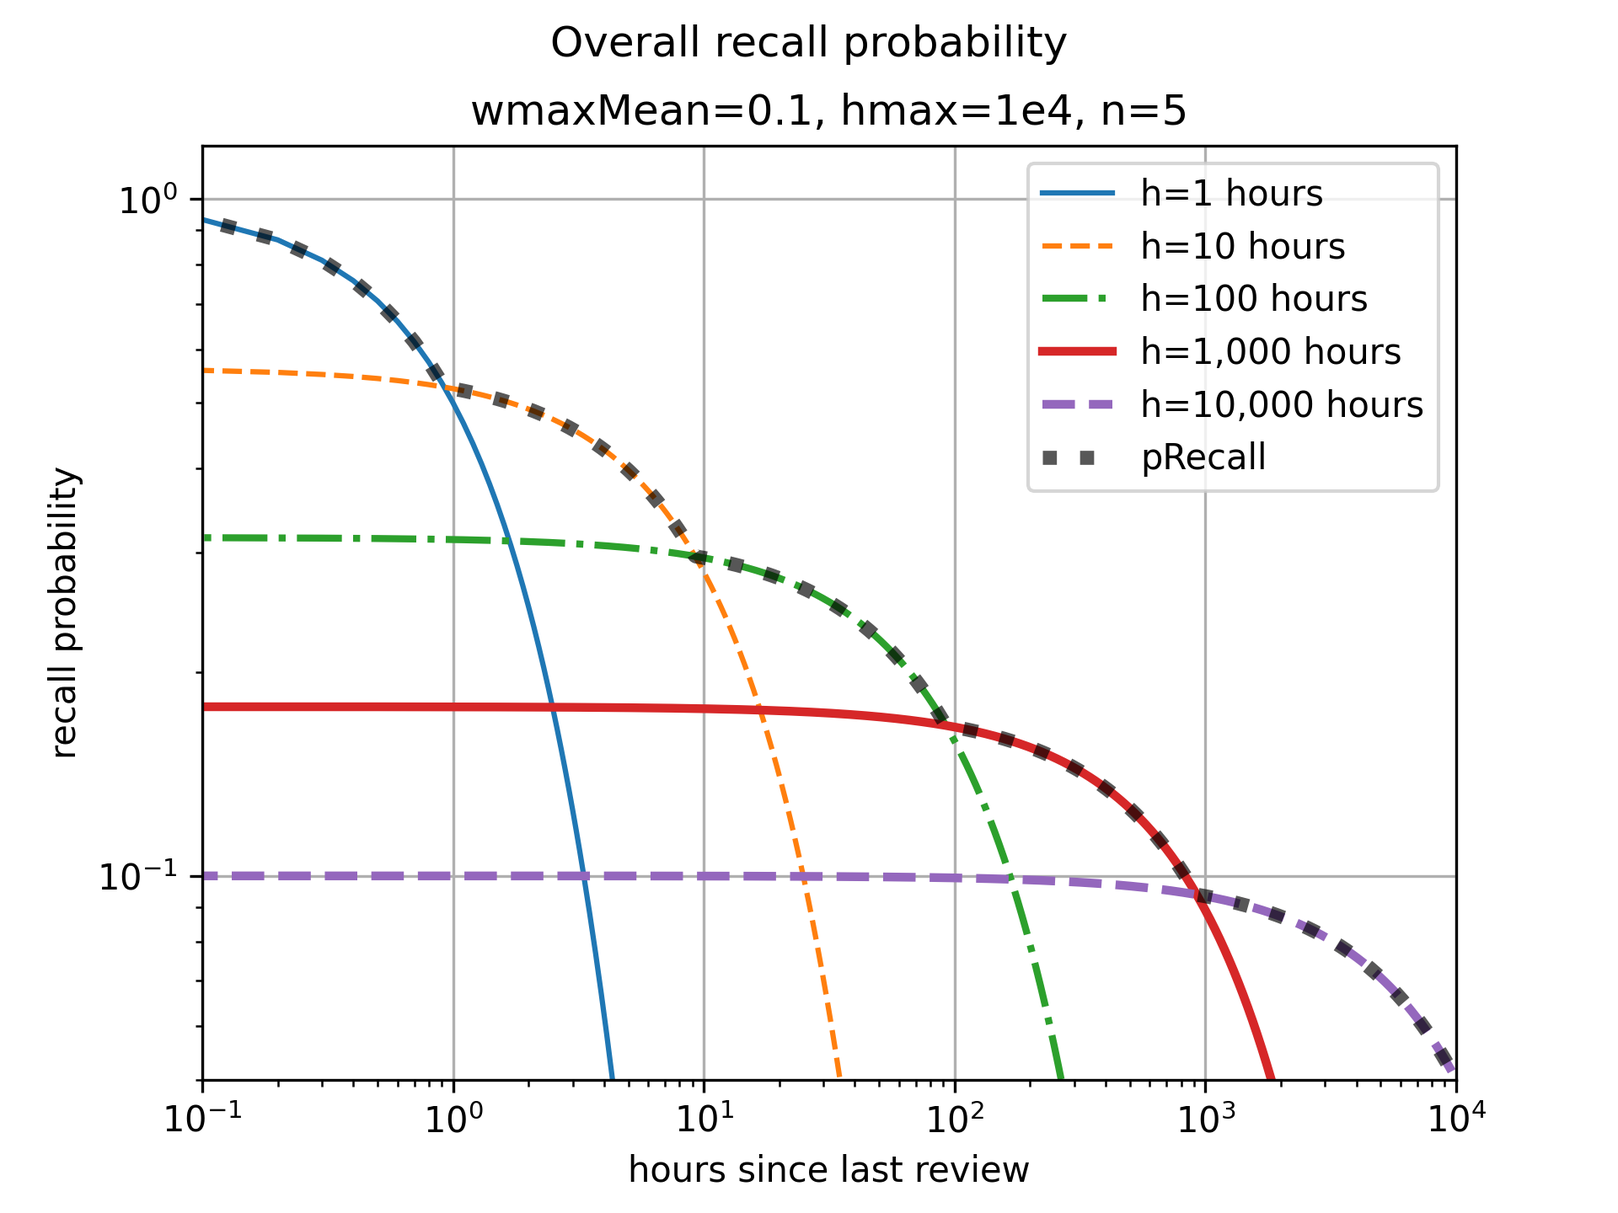
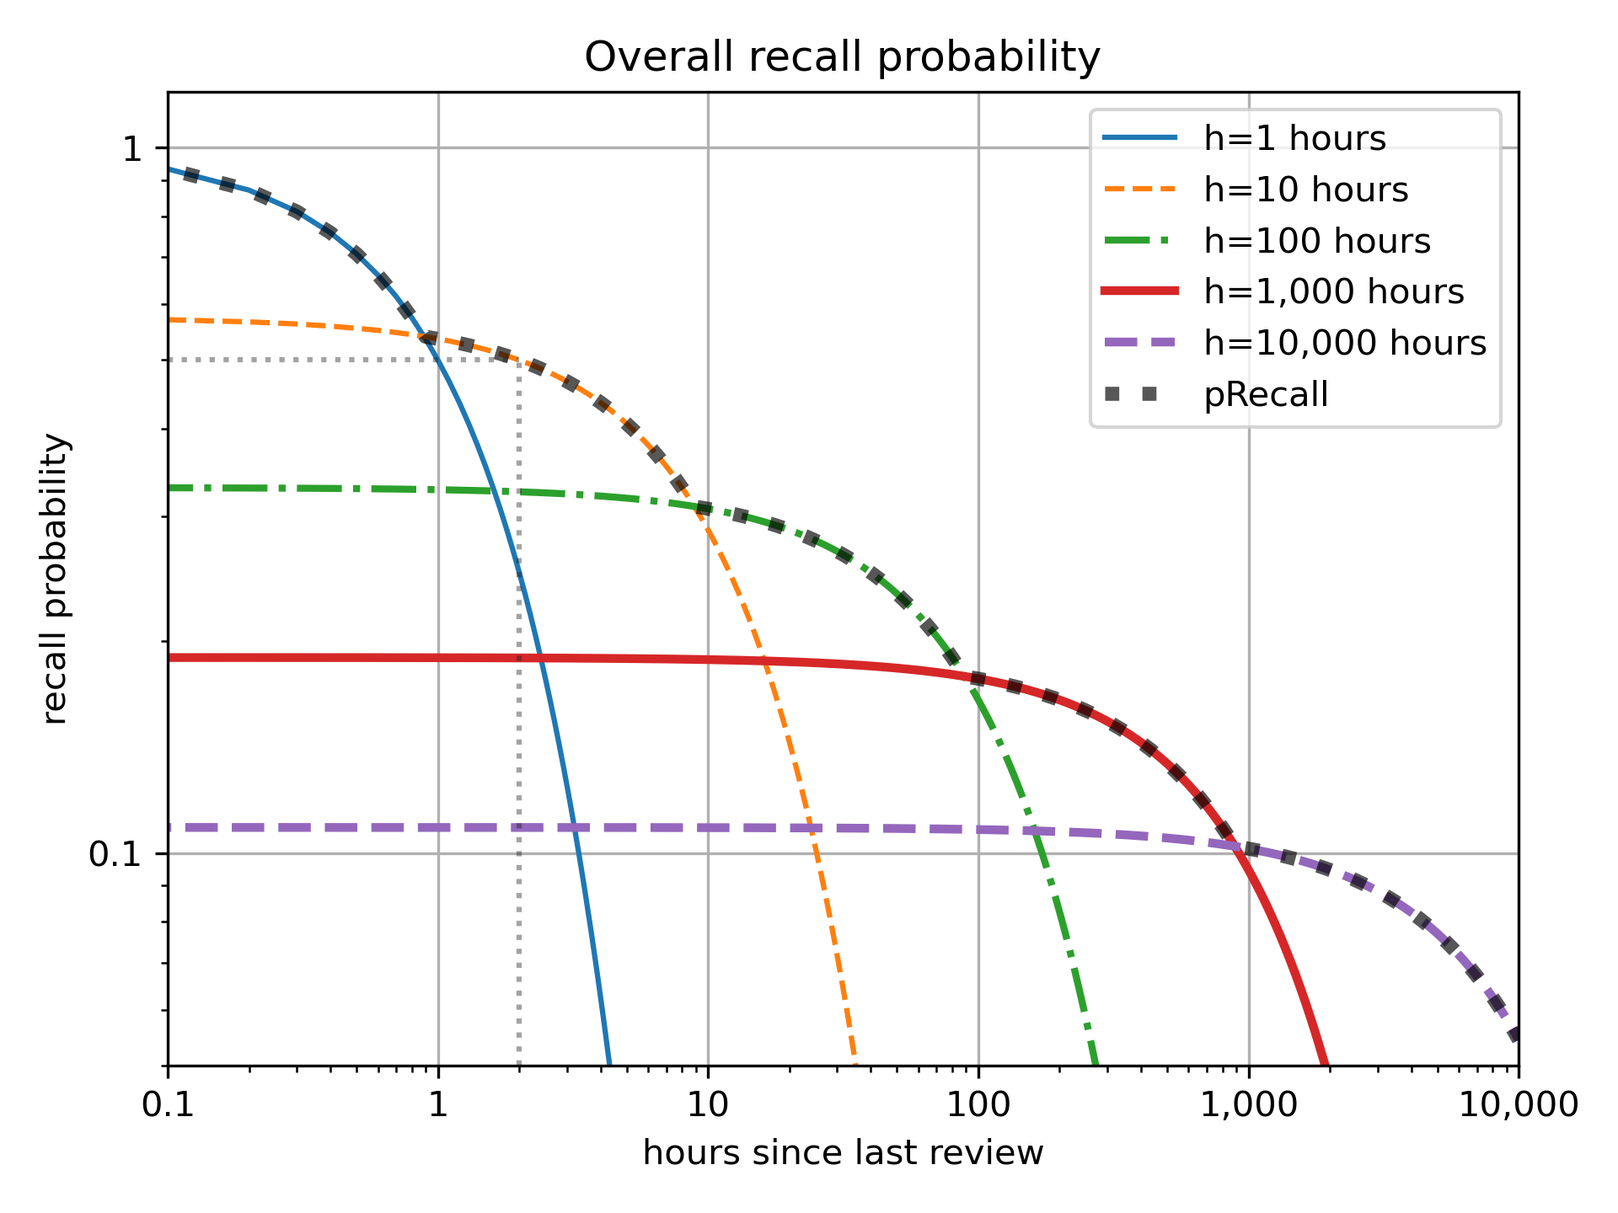
predict halflife semi-bayes and results

diff --git a/ebisu/ebisu.py b/ebisu/ebisu.py
@@ -5,17 +5,15 @@ from copy import deepcopy
 from typing import Union, Optional
 
 from .models import BinomialResult, HalflifeGamma, Model, NoisyBinaryResult, Predict, Quiz, Result
-from .ebisuHelpers import gammaUpdateBinomial, gammaUpdateNoisy
+from .ebisuHelpers import gammaPredictRecall, gammaUpdateBinomial, gammaUpdateNoisy
 
 
 def initModel(
-    halflife: Optional[float] = None,
-    weights: Optional[list[float] | np.ndarray] = None,
-    # above: weights, below: halflives
-    firstHalflife=1.0,
-    finalHalflife=1e5,
-    halflifeGammas: Optional[list[HalflifeGamma]] = None,
-    n: int = 10,  # both weights and halflives
+    halflife: float,  # hours
+    finalHalflife=1e5,  # hours
+    n: int = 10,
+    # above: lazy inputs, below: exact inputs
+    weightsHalflifeGammas: Optional[list[tuple[float, HalflifeGamma]]] = None,
     now: Optional[float] = None,  # totally separate
 ) -> Model:
   """
@@ -24,21 +22,22 @@ def initModel(
   Optional `now`: milliseconds since the Unix epoch when the fact was learned.
   """
   now = now if now is not None else timeMs()
-  if halflifeGammas is None:
-    halflives = np.logspace(log10(firstHalflife), log10(finalHalflife), n).tolist()
+  if weightsHalflifeGammas is not None:
+    n = len(weightsHalflifeGammas)
+    weights: list[float] = []
+    halflifeGammas: list[tuple[float, float]] = []
+    halflives: list[float] = []
+    # could use `zip` here but then types get mixed
+    for w, g in weightsHalflifeGammas:
+      weights.append(w)
+      halflifeGammas.append(g)
+      halflives.append(_gammaToMean(*g))
+  else:
+    halflives = np.logspace(log10(halflife * .1), log10(finalHalflife), n).tolist()
+    # pick standard deviation to be half of the mean
     halflifeGammas = [_meanVarToGamma(t, (t * .5)**2) for t in halflives]
-  else:
-    n = len(halflifeGammas)
-    halflives = [_gammaToMean(alpha, beta) for alpha, beta in halflifeGammas]
+    weights = _makeWs(n, _halflifeToFinalWeight(halflife, halflives)).tolist()
 
-  if weights is None:
-    if halflife is not None:
-      weights = _makeWs(n, _halflifeToFinalWeight(halflife, halflives))
-    else:
-      raise Exception('need weights or halflife')
-  else:
-    assert len(halflifeGammas) == len(weights), "# of Gammas must equal # of weights"
-    n = len(weights)  # might overwrite, that's fine
   log2weights = np.log2(weights).tolist()
 
   return Model(
@@ -153,6 +152,29 @@ def predictRecall(
   return logPrecall if logDomain else np.exp2(logPrecall)
 
 
+LN2 = np.log(2)
+
+
+def predictRecallSemiBayesian(
+    model: Model,
+    now: Optional[float] = None,
+    logDomain=True,
+    extra: Optional[dict] = None,
+) -> float:
+  now = now if now is not None else timeMs()
+  elapsedHours = (now - model.pred.lastEncounterMs) * HOURS_PER_MILLISECONDS
+  assert elapsedHours >= 0, "cannot go back in time"
+  l = [
+      log2w * LN2 + gammaPredictRecall(alpha, beta, elapsedHours, True)
+      for (alpha, beta), log2w in zip(model.pred.halflifeGammas, model.pred.log2weights)
+  ]
+  if extra is not None:
+    extra['indiv'] = l
+  logPrecall = max(l)
+  assert np.isfinite(logPrecall) and logPrecall <= 0
+  return logPrecall if logDomain else np.exp(logPrecall)
+
+
 def predictRecallMonteCarlo(
     model: Model,
     now: Optional[float] = None,
@@ -168,16 +190,19 @@ def predictRecallMonteCarlo(
   logp = np.max((np.array(model.pred.log2weights)[:, np.newaxis] -
                  elapsedHours / np.vstack([g.rvs(size=size) for g in gammas])),
                 axis=0)
-  return np.mean(logp) if logDomain else np.mean(np.exp2(logp))
+  expectation = np.mean(np.exp2(logp))
+  return np.log(expectation) if logDomain else expectation
 
 
 def _halflifeToFinalWeight(halflife: float, hs: list[float] | np.ndarray):
   """
   Complement to `hoursForRecallDecay`, which is $halflife(percentile, wmaxMean)$.
 
-  This is $wmaxMean(halflife, percentile=0.5)$.
+  This is $finalWeight(halflife, percentile=0.5)$.
   """
   n = len(hs)
+  if n == 1:
+    return 1.0
   i = np.arange(0, n)
   hs = np.array(hs)
   # Avoid divide-by-0 below by skipping first `i` and `hs`
@@ -209,6 +234,8 @@ def _meanVarToGamma(mean, var) -> tuple[float, float]:
 
 
 def _makeWs(n: int, finalWeight: float) -> np.ndarray:
+  if n == 1:
+    return np.array([finalWeight])
   return finalWeight**(np.arange(n) / (n - 1))
 
 

diff --git a/readme_plots.py b/readme_plots.py
@@ -1,18 +1,21 @@
+import re
 import numpy as np
-import pylab as plt
 import ebisu
+import pylab as plt
 
 plt.ion()
 
 hs = np.logspace(0, 4, 5)
-ws = ebisu.ebisu._makeWs(len(hs), 0.1, 'exp')
+hl = 2
+finalWeight = ebisu.ebisu._halflifeToFinalWeight(hl, hs)
+ws = ebisu.ebisu._makeWs(len(hs), finalWeight)
+print(finalWeight, ws)
 
 plt.figure()
 plt.plot(hs, ws, 'o-')
 plt.xlabel('halflife (hours)')
 plt.ylabel('weight (unitless)')
-plt.suptitle('Weights per halflife (wMax=0.1)')
-plt.title('wmaxMean=0.1, hmax=1e4, n=5')
+plt.suptitle(f'Weights per halflife')
 plt.ylim([0, np.max(plt.ylim())])
 plt.grid()
 plt.savefig('leaky-integrators-weights.png', dpi=300)
@@ -37,10 +40,10 @@ plt.plot(
 plt.legend()
 plt.xlabel('hours since last review')
 plt.ylabel('recall probability')
-plt.suptitle('Overall recall probability')
-plt.title('wmaxMean=0.1, hmax=1e4, n=5')
+plt.title('Overall recall probability')
 plt.grid()
-plt.xlim([-10, 260])
+plt.xlim([-10, 220])
+plt.tight_layout()
 
 plt.savefig('leaky-integrators-precall.png', dpi=300)
 plt.savefig('leaky-integrators-precall.svg')
@@ -49,5 +52,15 @@ plt.gca().set_xscale("log")
 plt.gca().set_yscale("log")
 plt.ylim([.05, 1.2])
 plt.xlim([1e-1, 1e4])
+
+plt.hlines([0.5], np.min(plt.xlim()), hl, color=(.1, .1, .1), alpha=0.4, linestyles='dotted')
+plt.vlines([hl], np.min(plt.ylim()), 0.5, color=(.1, .1, .1), alpha=0.4, linestyles='dotted')
+
+ax = plt.gca()
+fixup = lambda vec: [re.sub(r'.0$', '', f'{x:,}') for x in vec]
+ax.set_xticklabels(fixup(ax.get_xticks()))
+ax.set_yticklabels(fixup(ax.get_yticks()))
+
+plt.tight_layout()
 plt.savefig('leaky-integrators-precall-loglog.png', dpi=300)
 plt.savefig('leaky-integrators-precall-loglog.svg')

diff --git a/ebisu/ebisuHelpers.py b/ebisu/ebisuHelpers.py
@@ -65,7 +65,7 @@ def _intGammaPdf(a: float, b: float, logDomain: bool):
 
 
 def _intGammaPdfExp(a: float, b: float, c: float, logDomain: bool):
-  # $s(a,b,c) = \int_0^∞ h^(a-1) \exp(-b h - c / h) dh$, via sympy
+  "Returns $∫_0^∞ h^(a-1) e^{-b h - c / h} dh$, or its log"
   if c == 0:
     return _intGammaPdf(a, b, logDomain=logDomain)
 
@@ -120,3 +120,10 @@ def gammaUpdateNoisy(a: float, b: float, t: float, q1: float, q0: float, z: bool
   assert np.isfinite(newAlpha)
   assert np.isfinite(newBeta)
   return GammaUpdate(a=newAlpha, b=newBeta, mean=exp(logmean))
+
+
+def gammaPredictRecall(alpha: float, beta: float, hoursElapsed: float, logDomain: bool) -> float:
+  res = _intGammaPdfExp(alpha, beta, hoursElapsed * LN2, logDomain=logDomain)
+  if logDomain:
+    return res + alpha * log(beta) - gammaln(alpha)
+  return res * (beta**alpha) / gamma(alpha)

diff --git a/readme_plots_halflife.py b/readme_plots_halflife.py
@@ -1,0 +1,21 @@
+import ebisu
+import numpy as np
+import pylab as plt
+
+plt.ion()
+
+# m = ebisu.initModel(2.0, finalHalflife=1e4, n=1, now=0)
+m = ebisu.initModel(2.0, finalHalflife=1e4, n=5, now=0)
+t = np.logspace(-2, 5, 201)
+
+mc = [ebisu.predictRecallMonteCarlo(m, now=3600e3 * h, size=1_000, logDomain=False) for h in t]
+semibayes = [ebisu.predictRecallSemiBayesian(m, now=3600e3 * h, logDomain=False) for h in t]
+approx = [ebisu.predictRecall(m, now=3600e3 * h, logDomain=False) for h in t]
+
+plt.figure()
+plt.loglog(t, approx, label='Approx')
+plt.loglog(t, mc, label='Monte Carlo')
+plt.loglog(t, semibayes, label='Semi Bayes', linestyle='--')
+
+plt.ylim([.09, 1.2])
+plt.legend()

diff --git a/README.md b/README.md
@@ -70,24 +70,18 @@ python -m pip install ebisu
 **Step 1.** Create an Ebisu `Model` for each flashcard when a student learns it:
 ```py
 def initModel(
-    halflife: Optional[float] = None,
-    finalWeight: Optional[float] = None,
-    weights: Optional[list[float] | np.ndarray] = None,
-
-    firstHalflife=1.0,
-    finalHalflife=1e5,
-    halflifeGammas: Optional[list[HalflifeGamma]] = None,
-
+    halflife: float,  # hours
+    finalHalflife=1e5,  # hours
     n: int = 10,
-
-    now: Optional[float] = None,
+    weightsHalflifeGammas: Optional[list[tuple[float, HalflifeGamma]]] = None,
+    now: Optional[float] = None,  # totally separate
 ) -> Model
 ```
-If you want to do the minimal amount of work to create a model, just provide `halflife` in hours. This is your best guess of how long it will take for this flashcard’s memory to decay to 50% (“half” in “halflife”).
+If you want to do the minimal amount of work to create a model, just provide `halflife` in hours. This is your best guess of how long it will take for this flashcard’s memory to decay to 50% (the “half” in “halflife”).
 
-This will create a sequence of `n=10` decaying exponentials (“leaky integrators” in Mozer et al.’s terminology) whose halflives are Gamma random variables. The means of these Gammas are logarithmically-spaced from `firstHalflife` of an hour to `finalHalflife` of 1e5 hours (more than 11 years; the standard deviation of each Gamma will be half the mean). This will also assign each of these Gamma random variables a weight that logarithmically-decreases from 1.0 such that the overall probability of recall has your provided `halflife`.
+This will create a sequence of `n=10` decaying exponentials (“leaky integrators” in Mozer et al.’s terminology) whose halflives are Gamma random variables. The means of these Gammas are logarithmically-spaced from some fraction of `halflife` to `finalHalflife` of 1e5 hours (more than 11 years), and their standard deviations are some proportion of the mean. This will also assign each of these Gamma random variables a weight that logarithmically-decreases from 1.0 such that the overall probability of recall has your provided `halflife`.
 
-So. If you want to tune any of the above, you have all the knobs you need as keyword arguments: you can tweak how many leaky integrators there are, what the range of halflives they cover, and for ultimate control, provide `(alpha, beta)` parameterizations for each Gamma random variable via `halflifeGammas`. You can of course also specify the list of `weights` which governs the overall halflife of this fact.
+If you dislike any of the above defaults, you can tune them using the keyword arguments, or, for total control, pass in `weightsHalflifeGammas`, a list of tuples containing each leaky integrator’s weight and `HalflifeGamma` (a tuple of `alpha, beta` parameters of each Gamma random variable).
 
 `now` is when this fact was learned (milliseconds in the Unix epoch, midnight UTC on 1 January, 1970). If you don’t provide it, the current timestamp is used.
 
@@ -162,13 +156,33 @@ Now let’s jump into a more formal description of the mathematics and the resul
 ### Exponential decay
 While much psychological literature has identified that forgetting follows power-law decay (e.g., probability of recall $t$ time units after last review $p(t) = (t+1)^{-α}$ for some positive shape parameter $α$), we start by discussing a simpler case, exponential decay, because we will use a string of exponentially-decaying functions to approximate a power law.
 
-So let’s imagine a flashcard with halflife $h ∼ \mathrm{Gamma}(α, β)$, in hours, that is, a Gamma random variable with known parameters $α$ and $β$.
+So let’s imagine a flashcard with halflife in hours $h ∼ \mathrm{Gamma}(α, β)$, that is, a Gamma random variable with known parameters $α$ and $β$.
 
 This flashcard’s probability of recall after $t$ hours since last encountering it is
 $$p(t) = 2^{-t/h}.$$
 At the halflife, the recall probability $p(h) = 0.5$ has decayed to half-strength. At twice the halflife, $p(2 h) = 0.25$, and so on.
 
-Now suppose at time $t$ hours since last review, we obtain a  binomial quiz:
+For any given time elapsed $t$, we can compute the expected value of this recall probability via the law of the unconscious statistician ([LOTUS](https://en.wikipedia.org/wiki/Law_of_the_unconscious_statistician)), whereby for random variable $X$, $E[g(X)] = ∫_{-∞}^∞ g(x) f_X(x) \,\mathrm{d}x$, that is, the expectation of a function ($g$) of a random variable involves integrating that function and the random variable’s density ($f_X$). In our case we use the Gamma’s density:
+$$
+E\left[p(t) = 2^{-t/h}\right] = \frac{β^α}{Γ(α)}  ∫_0^∞ 2^{-t/h} h^{α - 1} e^{β h} \,\mathrm{d}h.
+$$
+This is not as ferocious as it first looks. Since $2^x = e^{x \log 2}$ (where $\log$ is the natural log, with base $e$), we can absorb terms, and then let <a name="sympy-integral"></a>Sympy do all the heavy lifting: it turns out that for positive constants $a$, $b$, and $c$,
+$$
+  ∫_0^∞ h^{a - 1} e^{-b h - c / h} \,\mathrm{d}h = 2 \left(\frac{c}{b}\right)^{a/2} K_{a}(2\sqrt{b c}).
+$$
+$K_ν(z)$ here is the modified Bessel function of the second kind with order $ν$ (lol which is Greek letter “nu”) and argument $z$. Frankly, I don’t know much about this function but [Scipy](https://docs.scipy.org/doc/scipy/reference/generated/scipy.special.kv.html) provides it—lucky!
+
+> For completeness, note that when $c=0$ (which can happen in our application when the time elapsed since last quiz is $t=0$), there’s a simpler solution. The integrand is just the Gamma distribution’s density, so $∫_0^∞ h^{a-1} e^{-b h} \,\mathrm{d}h = b^{-a}Γ(a)$, i.e., the reciprocal of the normalizing constant in the Gamma density.
+
+Therefore, we have
+$$
+  E\left[p(t) \right] = \frac{2 β^α}{Γ(α)} \left(\frac{t \log 2}{β}\right)^{α/2} K_{α}(2\sqrt{β t \log 2}),
+$$
+which could be simplified a bit more but I’ll leave it like this because it uses the result of the Sympy integral above which we’ll have occasion to invoke later.
+
+Nota bene, Ebisu doesn’t actually use this expectation anywhere since it never has a single Gamma-distributed halflife (only a series of them). I’ve belabored this derivation mainly because it introduces some results we’ll use next—quizzes.
+
+So. Suppose at time $t$ hours since last review, we obtain a  binomial quiz:
 $$k|h ∼ \mathrm{Binomial}(n, p(t) = 2^{-t/h})$$
 In words: the student got $k$ points out of $n$ total where each point was independent and had probability $p(t)$. (For $n=1$ of course the binomial trial simplifies to a Bernoulli trial, i.e., a binary quiz.)
 
@@ -201,20 +215,12 @@ m_N = ∑_{i=0}^{n-k} \left[
   ∫_0^∞ h^{α + N - 1} e^{-β h - (k-i)(\log 2) t / h} \,\mathrm{d}h
 \right].
 $$
-Sympy comes in clutch to do this inner integral: in general, for positive constants $a$, $b$, and $c$,
-$$
-  ∫_0^∞ h^{a - 1} e^{-b h - c / h} \,\mathrm{d}h = 2 \left(\frac{c}{b}\right)^{a/2} K_{a}(2\sqrt{b c}).
-$$
-$K_ν(z)$ here is the modified Bessel function of the second kind with order $ν$ (lol which is Greek letter “nu”) and argument $z$. Frankly, I don’t know much about this function but [Scipy](https://docs.scipy.org/doc/scipy/reference/generated/scipy.special.kv.html) provides it—lucky!
-
-> For completeness, note that when $c=0$ (which can happen in our application when the time elapsed since last quiz is $t=0$), there’s a simpler solution. The integrand is just the Gamma distribution’s density, so $∫_0^∞ h^{a-1} e^{-b h} \,\mathrm{d}h = b^{-a}Γ(a)$, i.e., the reciprocal of the normalizing constant in the Gamma density.
-
-So the constant
+Note that the inner integral is in the same form as the one we solved with Sympy [above](#sympy-integral), for the expected probability of recall. So the constant is
 $$m_N = ∑_{i=0}^{n-k}
   (-1)^i \binom{n-k}{i}
   2 \left(\frac{(k-i)(\log 2) t}{β}\right)^{(α+N)/2} K_{α+N}(2\sqrt{β  (k-i)(\log 2) t})
 .$$
-This is… good! I promise! We’ll see later how this is implemented quite carefully in Python using `gammaln` and `kve` and `logsumexp` to maintain numerical accuracy but this is really useful because the moments of the posterior $P(h|k)$ follow very straightforwardly from the way we’ve constructed $m_N$. The mean
+This is… good! I promise! We’ll see later how this is implemented quite carefully in Python using `gammaln` and `kve` and `logsumexp` to maintain numerical accuracy but for now note how this is really useful because the moments of the posterior $P(h|k)$ follow very straightforwardly from the way we’ve constructed $m_N$. The mean
 $$E[h|k] = μ = \frac{1}{m_0} ∫_0^∞ h \left(1-e^{-(\log 2) t/h}\right)^{n-k} h^{α - 1} e^{-β h - k(\log 2) t/h}$$
 is simply $μ = \frac{m_1}{m_0}$. The second non-central moment $E[(h|k)^2] = \frac{m2}{m_0}$, so the variance is $σ^2 = m_2/m_0 - μ^2$.
 
@@ -295,8 +301,30 @@ $q_0$ is provided in a keyword argument and for the sake of developer experience
 > While this choice for the default $q_0$ is ad hoc, it does have the nice property that `successes` between 0 and 1 will smoothly and symmetrically (around 0.5) scale the posterior halflife between the binary fail/pass cases. Also, as a satisfying bonus, a *totally* uninformative quiz with  `successes = 0.5` results in *no change* to the prior, i.e., $α' = α$ and $β' = β$!
 
 ### Power laws
+So we’ve derived the mathematical specifics of two quiz styles for the *exponential* forgetting model, where our beliefs about the halflife of a fact $h$ are converted to recall probabilities via $p(t) = 2^{-t/h}$, even though considerable research has shown forgetting is a power-law phenomenon. In this section, we will show how a staggered sequence of exponentials leads us to the power law we’d like to govern Ebisu recall.
 
-> Recall that exponential decay, where the time factor $t$ is in the power, is qualitatively different than power-law decay, where $t$ is in the base. $2^{-t}$ decays *incredibly* quickly—you recall what Einstein apparently said about exponentials being the most powerful force in the universe. After seven halflives, the probability of recall has dropped less than 1%: $2^{-7} = 1/128$. Meanwhile, power laws decay much more slowly: $(t+1)^{-1}$ has decayed to 0.5 at $t=1$, making 1 hour its halflife; after seven halflives, the probability of recall is still $1/8$ or 12.5%. 12.5% is much more than 0.8%!
+To set the stage first—recall that exponential decay, where the time factor $t$ is in the exponent, is truly *fundamentally* different than power-law decay where $t$ is in the base. $2^{-t}$ decays *incredibly* quickly—you will recall what Einstein apparently said about exponentials being the most powerful force in the universe. After seven halflives, the probability of recall has dropped less than 1%: $2^{-7} = 1/128$. Meanwhile, power laws decay much more slowly: $(t+1)^{-1}$ has the same halflife as $2^{-t}$ (both have decayed to 0.5 at $t=1$) but after seven halflives, the probability of recall for the power law is still $1/8$, i.e., 12.5%, an order of magnitude higher than 0.8%!
+
+Mozer et al. in both their 2009 NIPS conference paper and their 2014 <cite>Psychological Science</cite> journal article (see [bibliography](#bibliography)) propose a model recall that uses a *series* of exponentials, which they call a “cascade of leaky integrators”. Here’s what that could look like, for a notional example: we have a sequence of five decaying exponentials whose halflives are logarithmically-spaced from one hour to `1e4` hours (1.4 years), and each exponential is scaled by a exponentially-decreasing weight, from 1.0 down. Here’s a plot of these five weighted exponentials, superimposed on which is a line (thick, dotted, gray) representing the *max* of any of these at any point in time:
+
+![Recall probability for each leaky integrator, with max](leaky-integrators-precall.png)
+
+At the left-most part of the plot, the first leaky integrator with the shortest time constant (blue solid line) dominates but also very quickly fades away due to the crush of its fast exponential. But as it decays, the second leaky integrator, with a strictly lower starting value (weight; orange dotted line), steps up to keep the recall probability from collapsing. And so on till the last leaky integrator.
+
+Switching the above plot’s x and y scales to log-log gives and zooming out to see more time gives us this:
+
+![Recall probability, as above, on log-log plot](leaky-integrators-precall-loglog.png)
+
+By taking the *max* of the output of each leaky integrator, we get this *sequence* of bumps, which describe a bumpy power law for times ranging between minutes to 1+ year. A *true* power law would, in a log-log plot such as this, be a straight line for all time—not only is ours bumpy, it’s also flat at either end (horizontal on the left, vertical on the right). At very short intervals, this makes sense—we can’t have probability of recall exceed 1—but for times beyond a year, after we’ve run out of leaky integrators, the probability of recall collapses quickly to zero under the crush of the exponential (Einstein’s most powerful force in the universe and all that).
+
+Nevertheless, this is very encouraging. So instead of probability of recall $p(t) = 2^{-t/h}$ for a single unknown halflife which we discussed previously, we can consider 
+$$p(t) = \max_{i=1}^{n} \left\lbrace w_i ⋅ 2^{-t/h_i} \right\rbrace$$
+for $h_i ∼ \mathrm{Gamma}(α_i, β_i)$. That is, we have $n$ Gamma-distributed random variables with known parameters $(α_i, β_i)$ whose means $μ_i = \frac{α_i}{β_i}$ are logarithmically-spaced between a low and high of our choice (e.g., one hour to `1e4` hours in the plot above).
+
+We also assume that each of the $n$ weights, $w_i$, are known and deterministic—this is a modeling choice to keep Ebisu’s posterior inference lightweight in a manner that seems psychologically plausible. So while we need $w_i ∈ [0, 1]$, we are otherwise quite free in choosing these weights. Mozer et al.’s (2009, see [bibliography](#bibliography)) model proposes exponentially-spaced weights, so we have
+$$w_i = (w_n)^{\frac{i-1}{n-1}}$$
+for some fixed final weight $w_n$, thereby setting the first weight on our shortest/fastest leaky integrator to 1.
+
 
 
 
